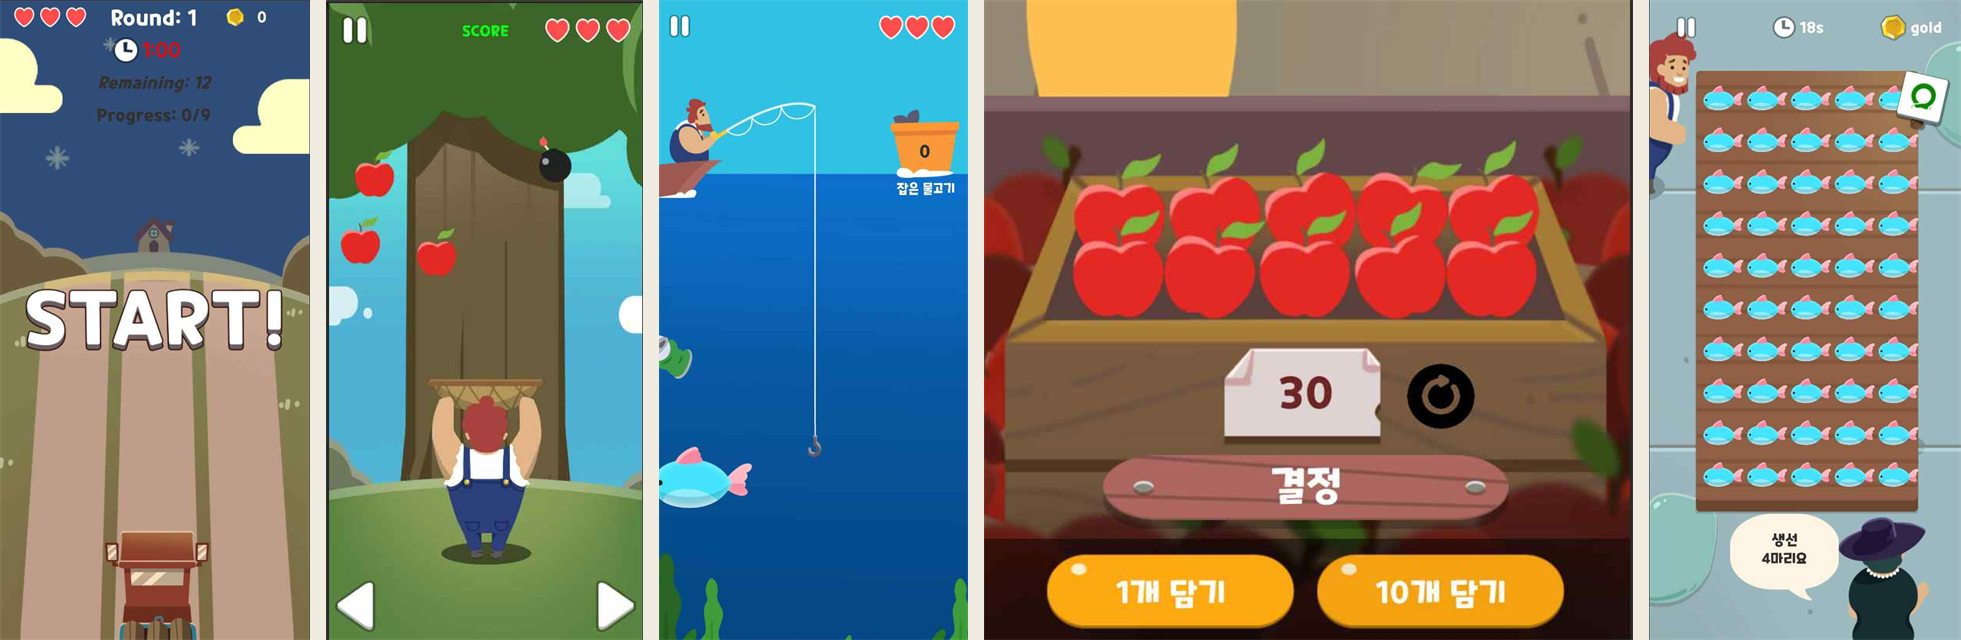
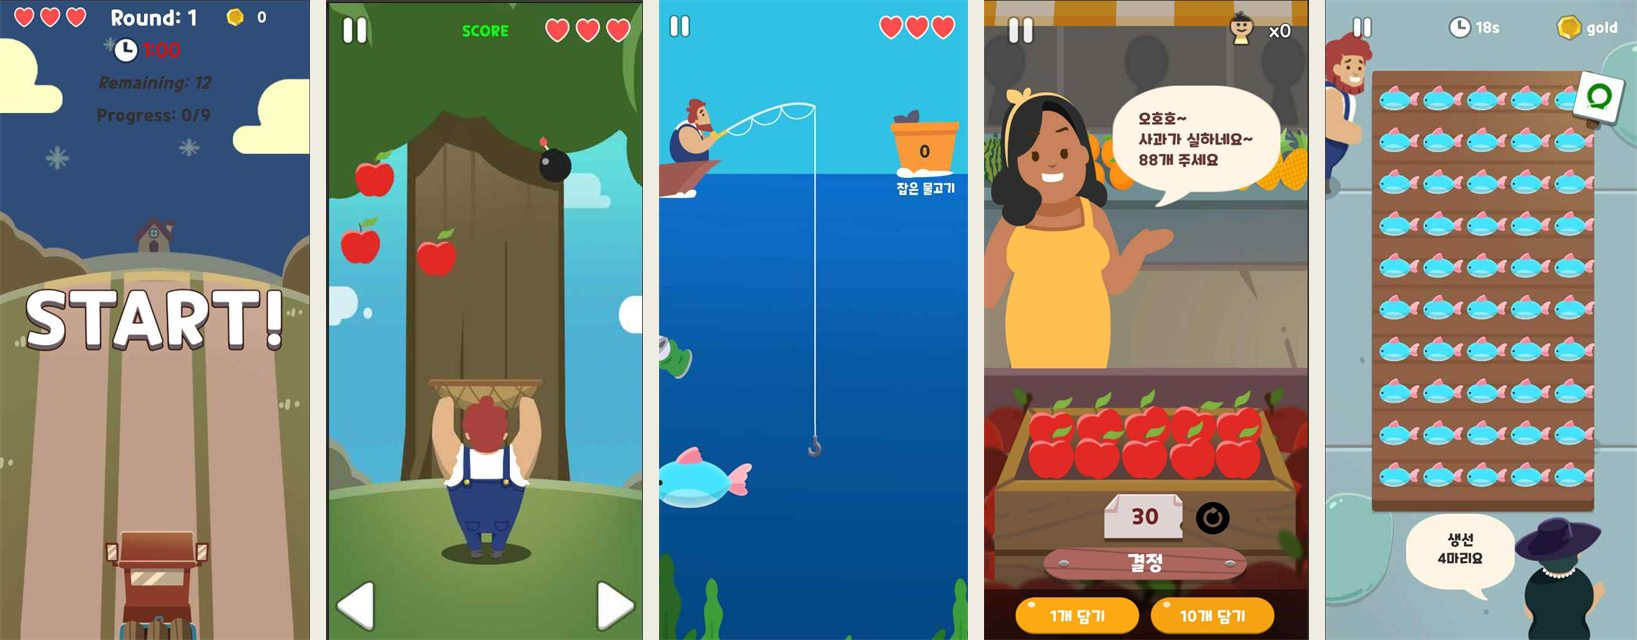
현명한 도끼 3: show apple market as a full-height screen

diff --git a/clean/wise-axe.html b/clean/wise-axe.html
@@ -60,7 +60,7 @@
       <p class="intro">낚시터에서 물고기를 잡고 시장에서 값을 계산하는 식으로, 놀이마다 다른 수학 개념을 연습하도록 나눴습니다. 게임 목록에는 각 놀이의 그림과 짧은 설명을 함께 배치해 아이가 다음 놀이를 스스로 고를 수 있게 했습니다.</p>
       <div class="rules c5" style="margin-top: 18px"><div><h3>나무꾼의 집</h3><p>수의 순서</p></div><div><h3>사과나무</h3><p>수의 양</p></div><div><h3>연못</h3><p>덧셈</p></div><div><h3>사과 시장</h3><p>뺄셈</p></div><div><h3>생선 시장</h3><p>곱셈과 나눗셈</p></div></div>
       <figure style="margin-top: 18px">
-        <img class="shot" src="../assets/axe-minigames.jpg" alt="나무꾼의 집, 사과나무, 연못, 사과 시장, 생선 시장 미니게임 화면">
+        <img class="shot" src="../assets/axe-minigames.jpg?v=2" alt="나무꾼의 집, 사과나무, 연못, 사과 시장, 생선 시장 미니게임 화면">
         <figcaption><b>실제 게임 화면</b><span>왼쪽부터 나무꾼의 집, 사과나무, 연못, 사과 시장, 생선 시장</span></figcaption>
       </figure>
     </div>

diff --git a/os/wise-axe.html b/os/wise-axe.html
@@ -60,7 +60,7 @@
       <p class="intro">낚시터에서 물고기를 잡고 시장에서 값을 계산하는 식으로, 놀이마다 다른 수학 개념을 연습하도록 나눴습니다. 게임 목록에는 각 놀이의 그림과 짧은 설명을 함께 배치해 아이가 다음 놀이를 스스로 고를 수 있게 했습니다.</p>
       <div class="rules c5" style="margin-top: 18px"><div><h3>나무꾼의 집</h3><p>수의 순서</p></div><div><h3>사과나무</h3><p>수의 양</p></div><div><h3>연못</h3><p>덧셈</p></div><div><h3>사과 시장</h3><p>뺄셈</p></div><div><h3>생선 시장</h3><p>곱셈과 나눗셈</p></div></div>
       <figure style="margin-top: 18px">
-        <img class="shot" src="../assets/axe-minigames.jpg" alt="나무꾼의 집, 사과나무, 연못, 사과 시장, 생선 시장 미니게임 화면">
+        <img class="shot" src="../assets/axe-minigames.jpg?v=2" alt="나무꾼의 집, 사과나무, 연못, 사과 시장, 생선 시장 미니게임 화면">
         <figcaption><b>실제 게임 화면</b><span>왼쪽부터 나무꾼의 집, 사과나무, 연못, 사과 시장, 생선 시장</span></figcaption>
       </figure>
     </div>
